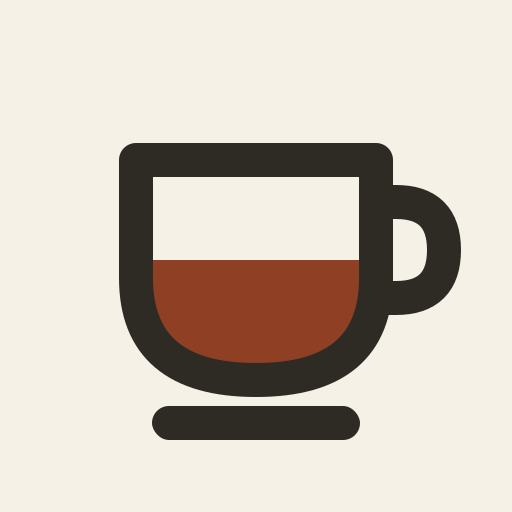
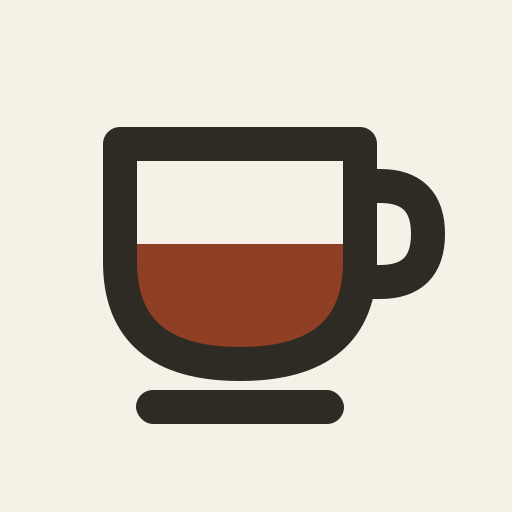
feat: アイコンを調整版に差し替え、ログイン画面は背景透過版を表示する
- オーナーが絵柄の位置を調整したアイコン一式（PNG・ico・svg）に差し替える（マニフェストは変更なし）
- SC-01 は背景透過版（icon-transparent.svg）を表示する（UI設計 v1.9、詳細設計 v1.14）

diff --git a/frontend/src/App.test.tsx b/frontend/src/App.test.tsx
@@ -17,9 +17,9 @@ describe('認証ガード', () => {
     renderApp('/', auth);
     expect(screen.getByRole('heading', { name: 'Chaicoss' })).toBeDefined();
     expect(auth.renderSignInButton).toHaveBeenCalled();
-    // ホーム画面と同じアプリのアイコンを表示する（装飾のため代替テキストなし）
+    // アプリのアイコンの背景透過版を表示する（装飾のため代替テキストなし）
     const icon = document.querySelector('main img');
-    expect(icon?.getAttribute('src')).toBe(`${import.meta.env.BASE_URL}favicon.svg`);
+    expect(icon?.getAttribute('src')).toBe(`${import.meta.env.BASE_URL}icon-transparent.svg`);
     expect(icon?.getAttribute('alt')).toBe('');
   });
 

diff --git a/frontend/src/pages/LoginPage.tsx b/frontend/src/pages/LoginPage.tsx
@@ -52,13 +52,13 @@ export function LoginPage() {
         gap: 1.25,
       }}
     >
-      {/* アプリのアイコン（ホーム画面と同じ。UI設計 1.11）。装飾のため読み上げない */}
+      {/* アプリのアイコンの背景透過版（UI設計 1.11）。装飾のため読み上げない */}
       <Box
         component="img"
-        src={`${import.meta.env.BASE_URL}favicon.svg`}
+        src={`${import.meta.env.BASE_URL}icon-transparent.svg`}
         alt=""
         aria-hidden
-        sx={{ width: 88, height: 88, borderRadius: '20px' }}
+        sx={{ width: 88, height: 88 }}
       />
       <Typography component="h1" sx={{ fontSize: 28, fontWeight: 700, mt: 1 }}>
         {APP_NAME}

diff --git a/docs/05_ui_design.md b/docs/05_ui_design.md
@@ -2,10 +2,10 @@
 
 | 項目 | 内容 |
 |---|---|
-| 版 | 1.8 |
+| 版 | 1.9 |
 | 作成日 | 2026-09-27 |
 | フェーズ | UI設計 |
-| 前提資料 | 01_requirements.md（v1.4）、03_basic_design.md（v1.2）、04_detail_design.md（v1.13） |
+| 前提資料 | 01_requirements.md（v1.4）、03_basic_design.md（v1.2）、04_detail_design.md（v1.14） |
 | 画面モック | ui/wireframe.html（全7画面、スマートフォンで操作可能） |
 
 本書は画面の仕様を定める。見た目の基準は画面モックとし、本書と画面モックが食い違う場合は本書を優先する。
@@ -130,7 +130,8 @@
 
 ### 1.11 アプリのアイコン（PWA）
 - ホーム画面に追加してアプリとして起動できるようにする（表示はアドレスバーなしの standalone）
-- アイコンはオーナーが作成したもの（カップにお茶の色、背景 `#F6F1E7`）を使う：192px・512px・マスカブル512px、iPhone 用 180px（apple-touch-icon）、favicon（.ico・.svg）
+- アイコンはオーナーが作成したもの（カップにお茶の色、背景 `#F6F1E7`。2026-10-12 に絵柄の位置を調整した版に差し替え）を使う：192px・512px・マスカブル512px、iPhone 用 180px（apple-touch-icon）、favicon（.ico・.svg）
+- SC-01 には、同じ絵柄の背景透過版（icon-transparent.svg）を使う
 - テーマ色（スマートフォンのステータスバーなど）は `#8E3F24`、起動時の背景色は `#F6F1E7`
 
 ---
@@ -140,7 +141,7 @@
 ### 2.1 SC-01 ログイン
 - 表示条件：自動ログインの試行中、自動ログインに失敗した場合、ログアウト後
 - 自動ログインの試行中は、ボタンの下に「自動でログインしています…」を表示する。成功したら、SC-01 に移る前の画面を表示する
-- 表示項目：アプリのアイコン（1.11。装飾のため読み上げ対象外）、アプリ名「Chaicoss」、説明文、Googleログインボタン（Google Identity Services の公式ボタン）、利用条件の案内
+- 表示項目：アプリのアイコンの背景透過版（1.11。装飾のため読み上げ対象外）、アプリ名「Chaicoss」、説明文、Googleログインボタン（Google Identity Services の公式ボタン）、利用条件の案内
 - 許可されていないアカウントの場合、ボタンの下にエラーを表示する：「このアカウントは利用できません。登録済みの家族のアカウントでログインしてください。」
 - ログインの有効期限が切れて再取得できなかった場合、ボタンの下にエラーを表示する：「ログインの有効期限が切れました。もう一度ログインしてください。」
 - ログイン成功後は SC-02 を表示する

diff --git a/docs/04_detail_design.md b/docs/04_detail_design.md
@@ -2,10 +2,10 @@
 
 | 項目 | 内容 |
 |---|---|
-| 版 | 1.13 |
-| 作成日 | 2026-09-26（v1.13：2026-10-12） |
+| 版 | 1.14 |
+| 作成日 | 2026-09-26（v1.14：2026-10-12） |
 | フェーズ | 詳細設計 |
-| 前提資料 | 01_requirements.md（v1.4）、02_tech_selection.md（v1.3）、03_basic_design.md（v1.2）、05_ui_design.md（v1.8） |
+| 前提資料 | 01_requirements.md（v1.4）、02_tech_selection.md（v1.3）、03_basic_design.md（v1.2）、05_ui_design.md（v1.9） |
 
 本書はClaude Codeによる実装の入力資料とする。実装中に判明した事項は本書を更新してから反映する。
 
@@ -447,7 +447,7 @@ doPost(e)
 
 - `frontend/public/manifest.webmanifest` とアイコンを置き、index.html から読み込む（Vite が base のパスを付ける）
 - マニフェストのアイコンと start_url（`.`）はマニフェストの場所からの相対指定とし、GitHub Pages のパス（`/tea-inventory-system/`）に合わせる
-- SC-01 のアイコンは、同じアイコン（`favicon.svg`）を `import.meta.env.BASE_URL` 付きのパスで表示する
+- SC-01 のアイコンは、背景透過版（`icon-transparent.svg`）を `import.meta.env.BASE_URL` 付きのパスで表示する
 - Service Worker（オフライン対応・キャッシュ）は導入しない。完了条件（ホーム画面から起動できる）はマニフェストとアイコンで満たし、データは常にサーバーから取得する
 
 ### 7.7 表示ルール
